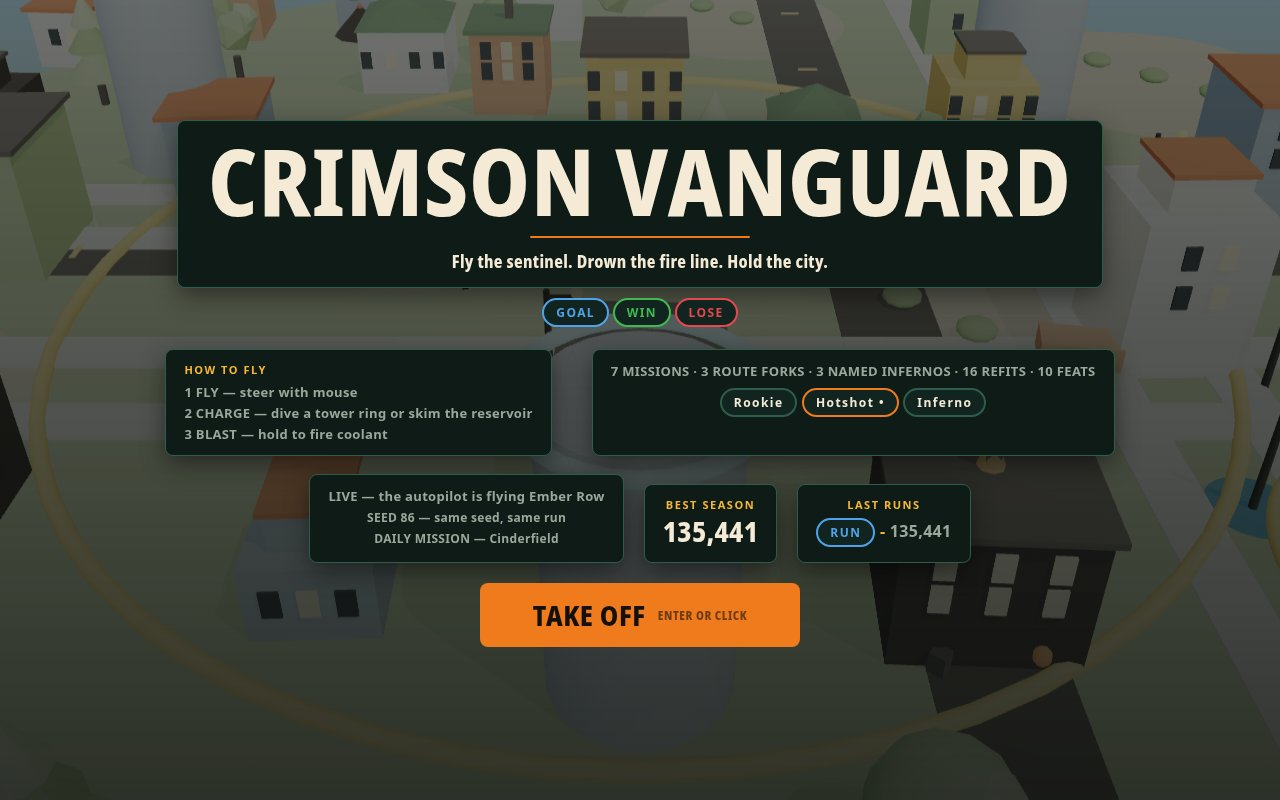
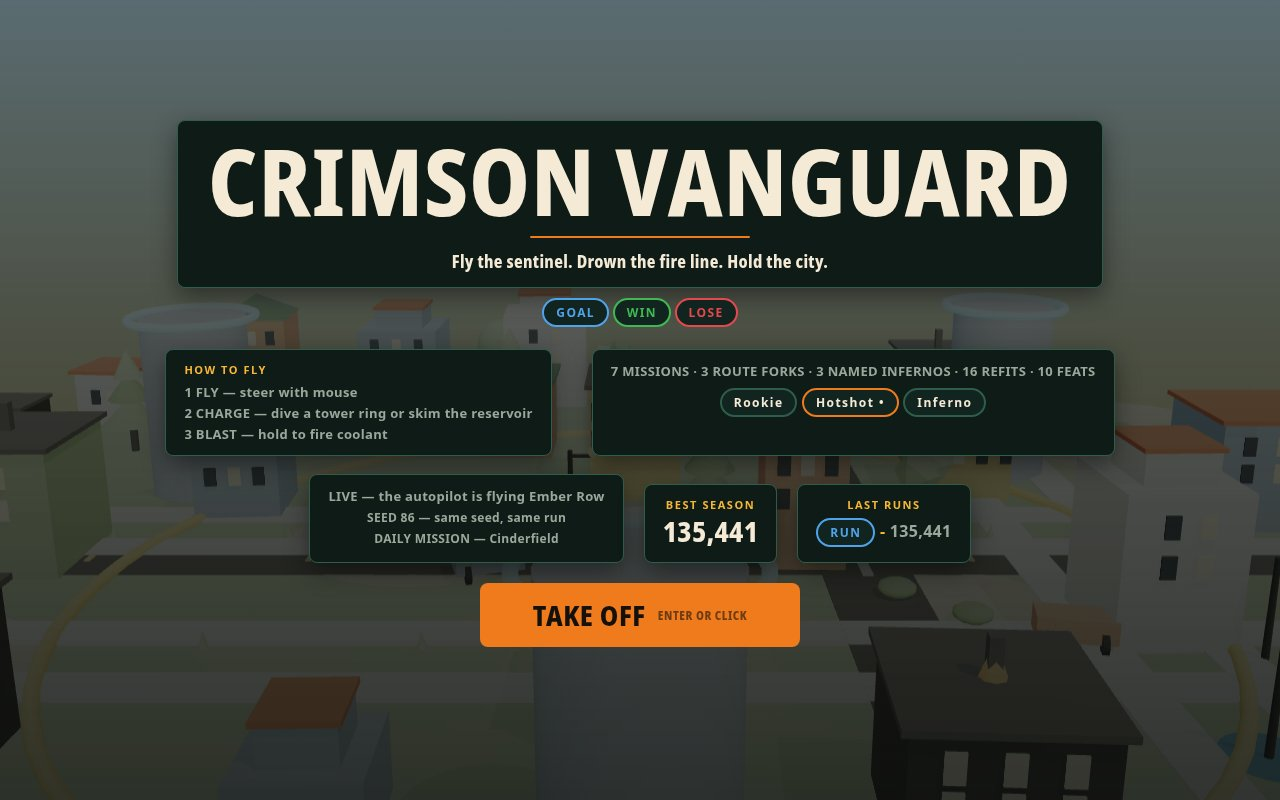
M7 staging: play at mission-7 opening (fresh fire line, not doused boss-fight)

diff --git a/game/src/shots.js b/game/src/shots.js
@@ -123,8 +123,11 @@ export function runToWin(world, seed) {
 export function stageShot(name, world, seed = 86) {
   if (name === 'play') {
     const winRow = runToWin(world, seed);
-    run(world, seed, (state) => state.mission === 7 &&
-      state.cores.some((c) => c.boss && c.hp <= c.maxHp * 0.8));
+    // Stage at the mission-7 OPENING: the fire line is freshly seeded and
+    // still burning across the band. (The old boss-fight stop left the
+    // centre doused, so the camera saw no fire at all.) Boss at full hp.
+    run(world, seed, (state) => state.mission === 7 && state.phase === 'fly' &&
+      (state.flames || []).length > 100);
     if (world.state.mission < 7) {
       run(world, seed, (state) => state.mission === 7);
     }
